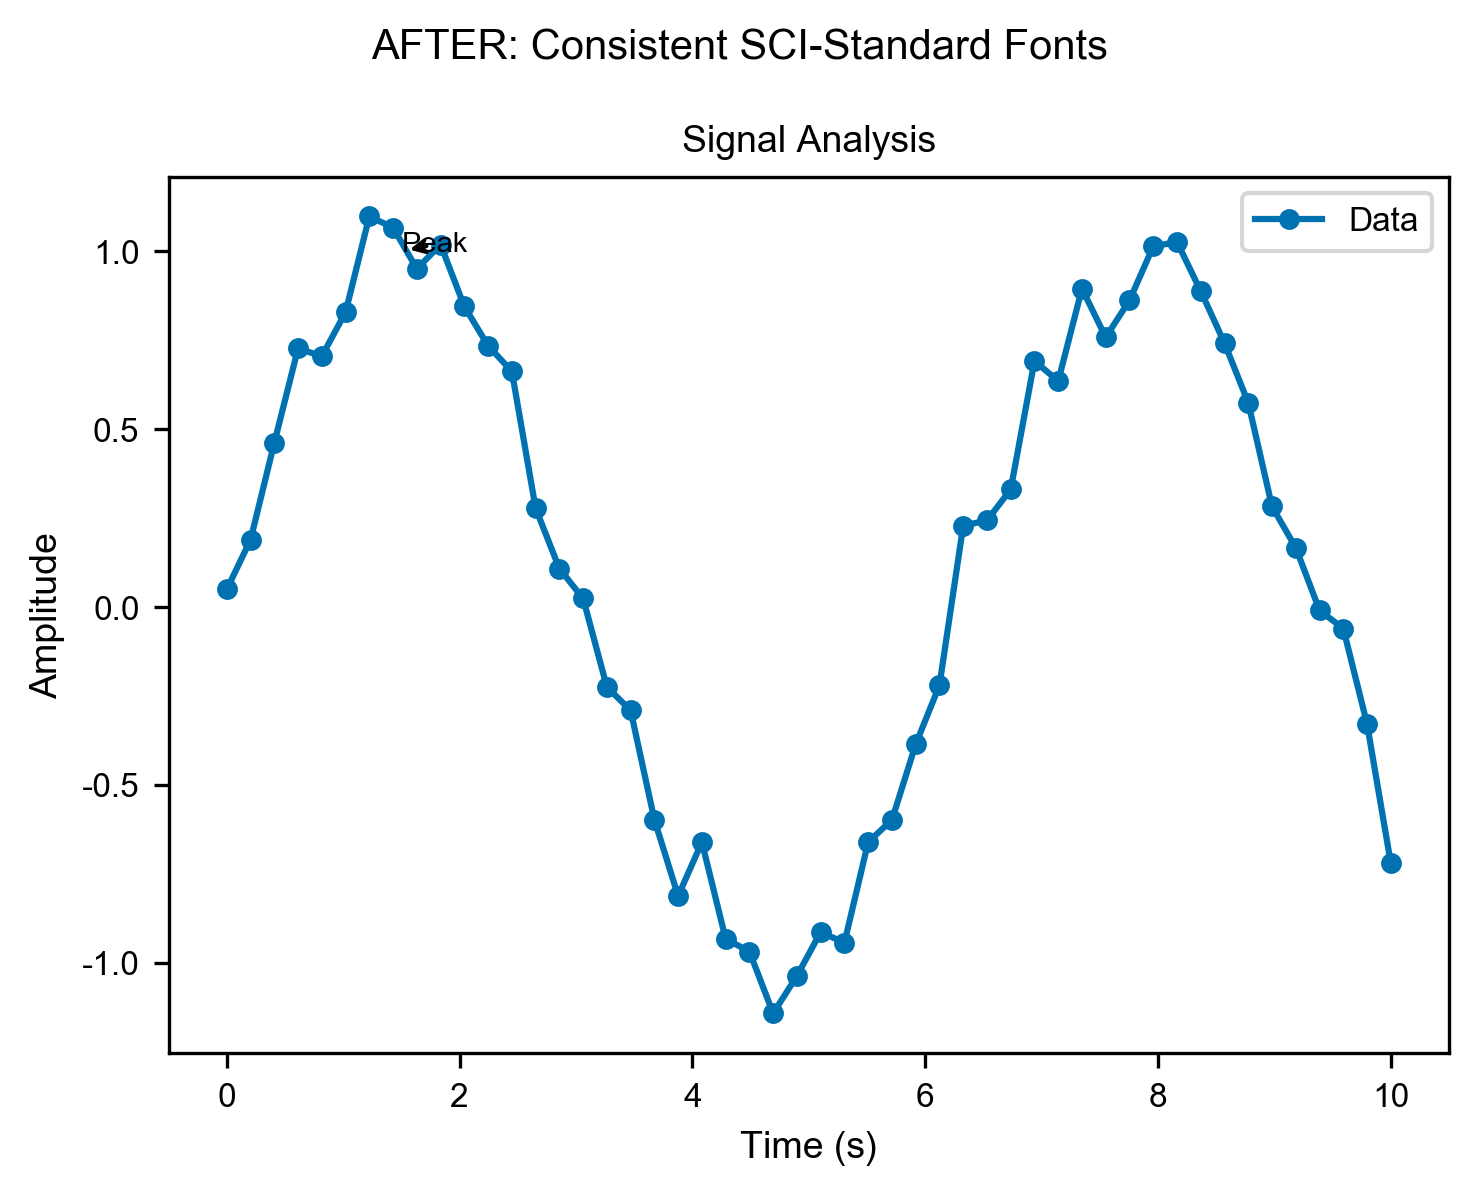
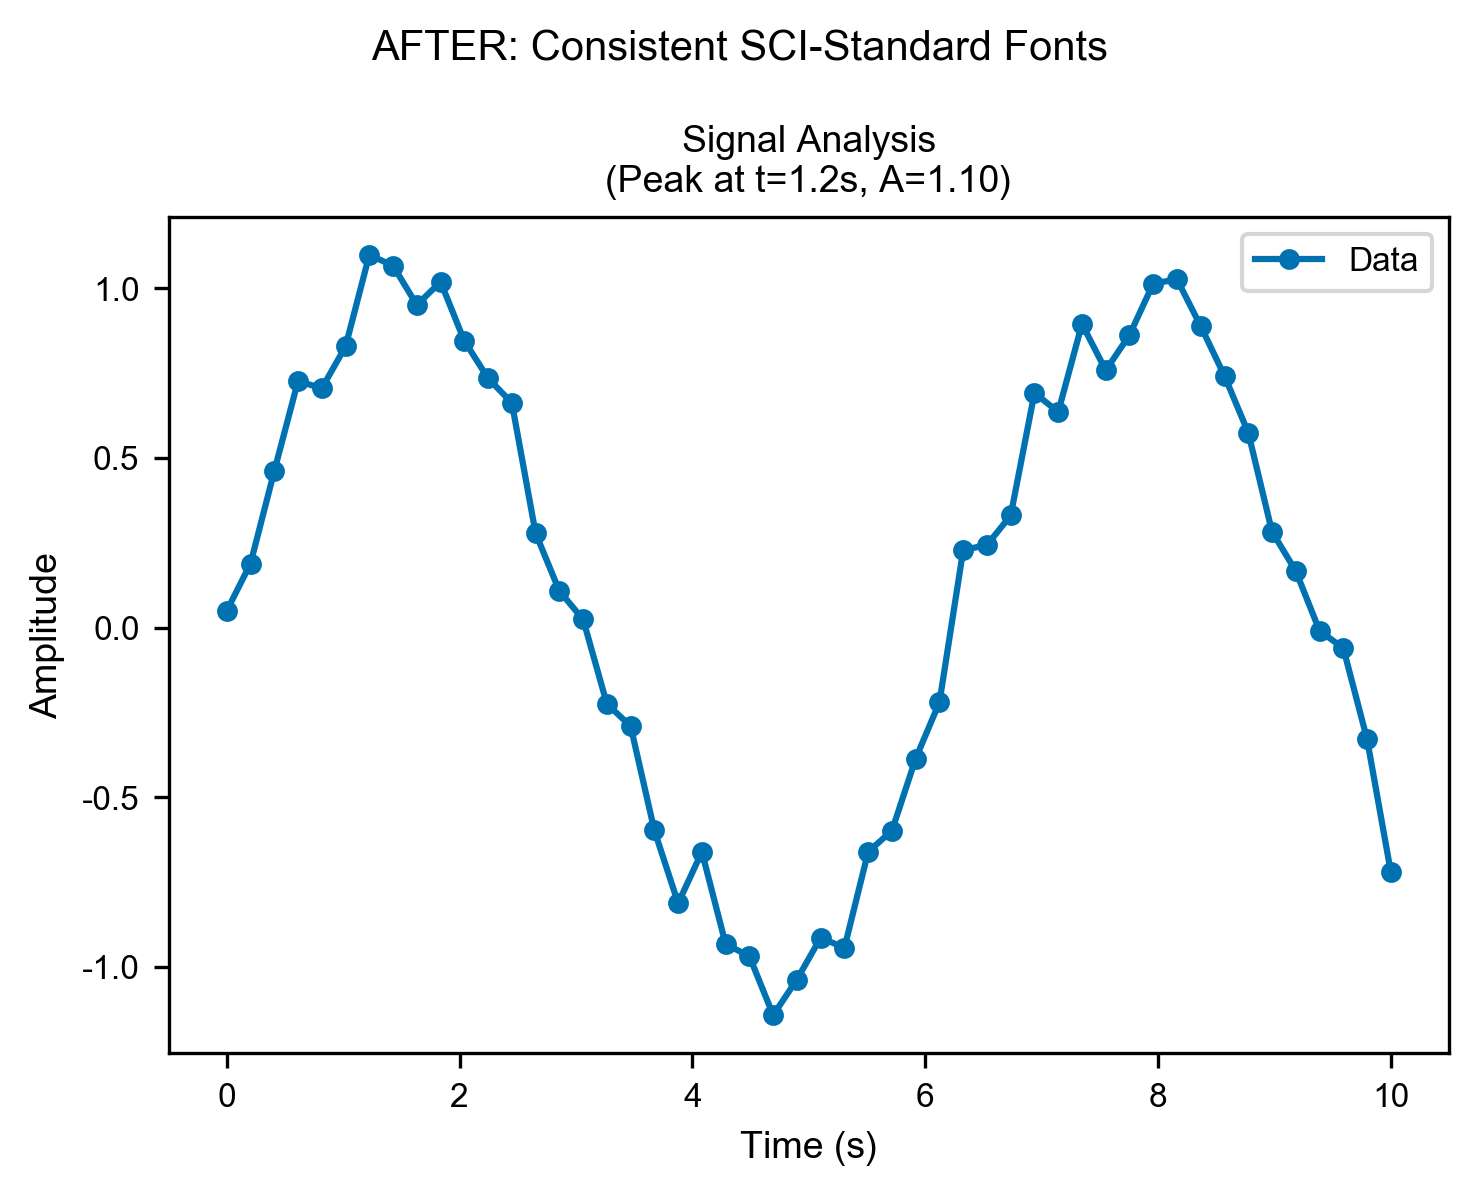
Fix Case 6: Remove annotation occlusion in After image + add detection
Changes:
- Case 6 now uses Pattern E: Move peak annotation to title instead of
  arrow annotation that could occlude data
- Added _check_annotation_occlusion() method to FigureAuditor
- Enhanced TitleAnnotation docstring with clear guidance on when to use
- Updated README Case 6 description

This fix addresses the issue where the "After" image still had an arrow
annotation (ax.annotate) that could potentially occlude data points.
The proper solution is to move such information to the subplot title.

🤖 Generated with [Claude Code](https://claude.com/claude-code)

diff --git a/src/sci_figure_toolkit/auditor.py b/src/sci_figure_toolkit/auditor.py
@@ -154,6 +154,7 @@ class FigureAuditor:
         self._check_redundant_legends(axes)
         self._check_font_consistency(axes)
         self._check_legend_occlusion(axes)
+        self._check_annotation_occlusion(axes)
         self._check_missing_labels(axes)
 
         return self.issues
@@ -319,6 +320,48 @@ class FigureAuditor:
                     location=f"subplot {i}",
                     auto_fixable=False
                 ))
+
+    def _check_annotation_occlusion(self, axes: List[plt.Axes]) -> None:
+        """Check for potential annotation-data occlusion."""
+        for i, ax in enumerate(axes):
+            # Get all text elements that could occlude data
+            texts = ax.texts
+            annotations = ax.texts  # Annotations are also in ax.texts
+
+            # Check for annotations with arrows (likely pointing at data)
+            for child in ax.get_children():
+                if hasattr(child, 'arrow_patch') and child.arrow_patch is not None:
+                    # This is an annotation with an arrow
+                    self.issues.append(Issue(
+                        type=IssueType.ANNOTATION_OCCLUSION,
+                        severity=Severity.INFO,
+                        message=f"Subplot {i}: Arrow annotation may occlude data",
+                        suggestion=(
+                            "Consider Pattern E: Move annotation info to title. "
+                            "Use ax.set_title('Title\\n(info here)') instead of ax.annotate()"
+                        ),
+                        location=f"subplot {i}",
+                        auto_fixable=False
+                    ))
+                    break  # Only report once per subplot
+
+            # Check for text boxes that might overlap data area
+            for text in texts:
+                bbox = text.get_bbox_patch()
+                if bbox is not None:
+                    # Text has a background box - potential occlusion
+                    self.issues.append(Issue(
+                        type=IssueType.ANNOTATION_OCCLUSION,
+                        severity=Severity.WARNING,
+                        message=f"Subplot {i}: Text box may occlude data",
+                        suggestion=(
+                            "Consider Pattern E: Move annotation to title. "
+                            "Or use Pattern F: inline labels on reference lines"
+                        ),
+                        location=f"subplot {i}",
+                        auto_fixable=False
+                    ))
+                    break  # Only report once per subplot
 
     def _check_missing_labels(self, axes: List[plt.Axes]) -> None:
         """Check for missing axis labels."""

diff --git a/examples/generate_case_images.py b/examples/generate_case_images.py
@@ -385,20 +385,23 @@ def generate_case6():
                        facecolor='white', edgecolor='none')
     plt.close(fig_before)
 
-    # AFTER: Consistent fonts (SCI standard)
+    # AFTER: Consistent fonts (SCI standard) + Pattern E for annotation
     fig_after, ax = plt.subplots(figsize=(5, 4))
     fig_after.suptitle('AFTER: Consistent SCI-Standard Fonts', fontsize=10, y=0.98)
 
     ax.plot(x, y, 'o-', markersize=4, color='#0072B2')
     ax.set_xlabel('Time (s)', fontsize=9)        # Standard: 9pt
     ax.set_ylabel('Amplitude', fontsize=9)       # Standard: 9pt
-    ax.set_title('Signal Analysis', fontsize=9)  # Standard: 9pt
     ax.tick_params(axis='both', labelsize=8)     # Standard: 8pt
     ax.legend(['Data'], fontsize=8, loc='upper right')  # Standard: 8pt
 
-    # Annotation with standard size
-    ax.annotate('Peak', xy=(1.5, 1.0), fontsize=7,  # Standard: 7pt
-                arrowprops=dict(arrowstyle='->'))
+    # Pattern E: Move annotation info to title instead of in-plot arrow
+    # This avoids potential data occlusion
+    peak_idx = np.argmax(y)
+    peak_x, peak_y = x[peak_idx], y[peak_idx]
+    ax.set_title(f'Signal Analysis\n(Peak at t={peak_x:.1f}s, A={peak_y:.2f})', fontsize=9)  # Standard: 9pt
+
+    # NO arrow annotation that could occlude data!
 
     plt.tight_layout()
     fig_after.savefig(OUTPUT_DIR / 'case6_after.png', bbox_inches='tight',

diff --git a/src/sci_figure_toolkit/patterns.py b/src/sci_figure_toolkit/patterns.py
@@ -175,9 +175,20 @@ class TitleAnnotation:
     """
     Pattern E: Move annotations into subplot titles.
 
-    Use when: Data fills most of the plot area, leaving no safe position for text
+    Use when:
+        - Data fills most of the plot area, leaving no safe position for text
+        - Arrow annotations would point at data and occlude it
+        - Text boxes or labels would overlap with data curves
+        - Need to display key numerical results (optimal values, R², etc.)
+
+    Why this matters:
+        - ax.annotate() with arrows often occludes data points
+        - Text boxes (bbox=dict(...)) can hide important data curves
+        - Title area is always safe and doesn't overlap plot data
 
     Example:
+        >>> # INSTEAD OF: ax.annotate('Peak', xy=(1.5, 1.0), arrowprops=...)
+        >>> # USE: Move info to title
         >>> ax.set_title(TitleAnnotation.format(
         ...     "(a) L-curve Analysis",
         ...     optimal_lambda=0.14

diff --git a/README.md b/README.md
@@ -268,9 +268,9 @@ Real-world examples from published papers showing before/after comparisons:
 |--------|-------|
 | ![Before](docs/images/case5_before.png) | ![After](docs/images/case5_after.png) |
 
-### Case 6: Font Inconsistency → Standardized Fonts
+### Case 6: Font Inconsistency → Standardized Fonts + Pattern E
 
-**Problem**: Mixed font sizes (14pt, 8pt, 12pt, etc.) across figure elements
+**Problem**: Mixed font sizes (14pt, 8pt, 12pt, etc.) across figure elements, plus arrow annotation that could occlude data
 
 | Before | After |
 |--------|-------|
